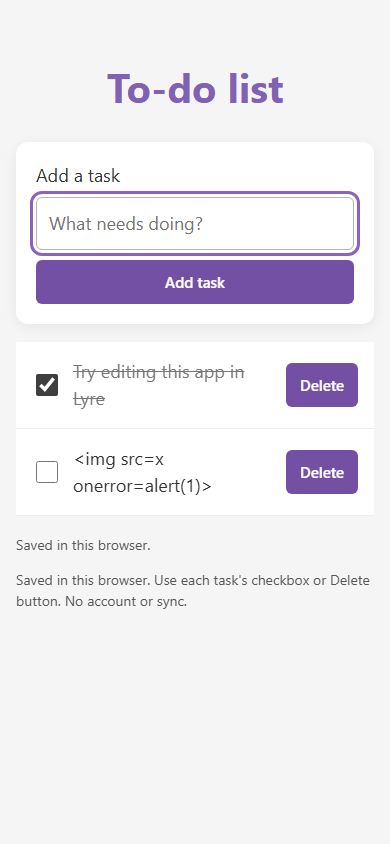
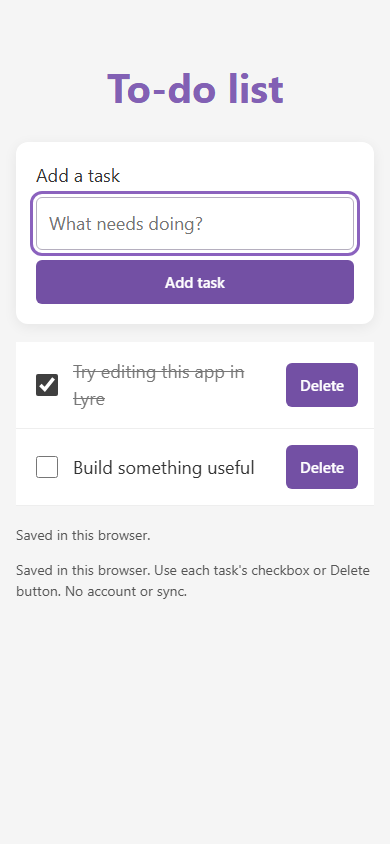
docs(template): retain source credits and representative preview

diff --git a/THIRD-PARTY.md b/THIRD-PARTY.md
@@ -3,3 +3,5 @@
 [todo-list](https://github.com/bradtraversy/50projects50days/tree/c92b0bc3a87fc95d44b89552b7b6a2eeb36ca481/todo-list) from bradtraversy/50projects50days at `c92b0bc3a87fc95d44b89552b7b6a2eeb36ca481`, MIT, copyright 2022 Brad Traversy. Root LICENSE applies; the inspected tree contains no per-project license override. Exact upstream file digests and adaptations are in TEMPLATE.json.
 
 Google Fonts imports were removed. The prepared project contains no external resources, artwork, npm libraries, cloud APIs or paid services. Lyre-authored adaptation/server code is MIT. No production or native security certification is claimed.
+
+The upstream README also credits: Copyright (c) 2020-2021 Traversy Media https://traversymedia.com, under the MIT license. This notice is retained alongside the root LICENSE notice.
